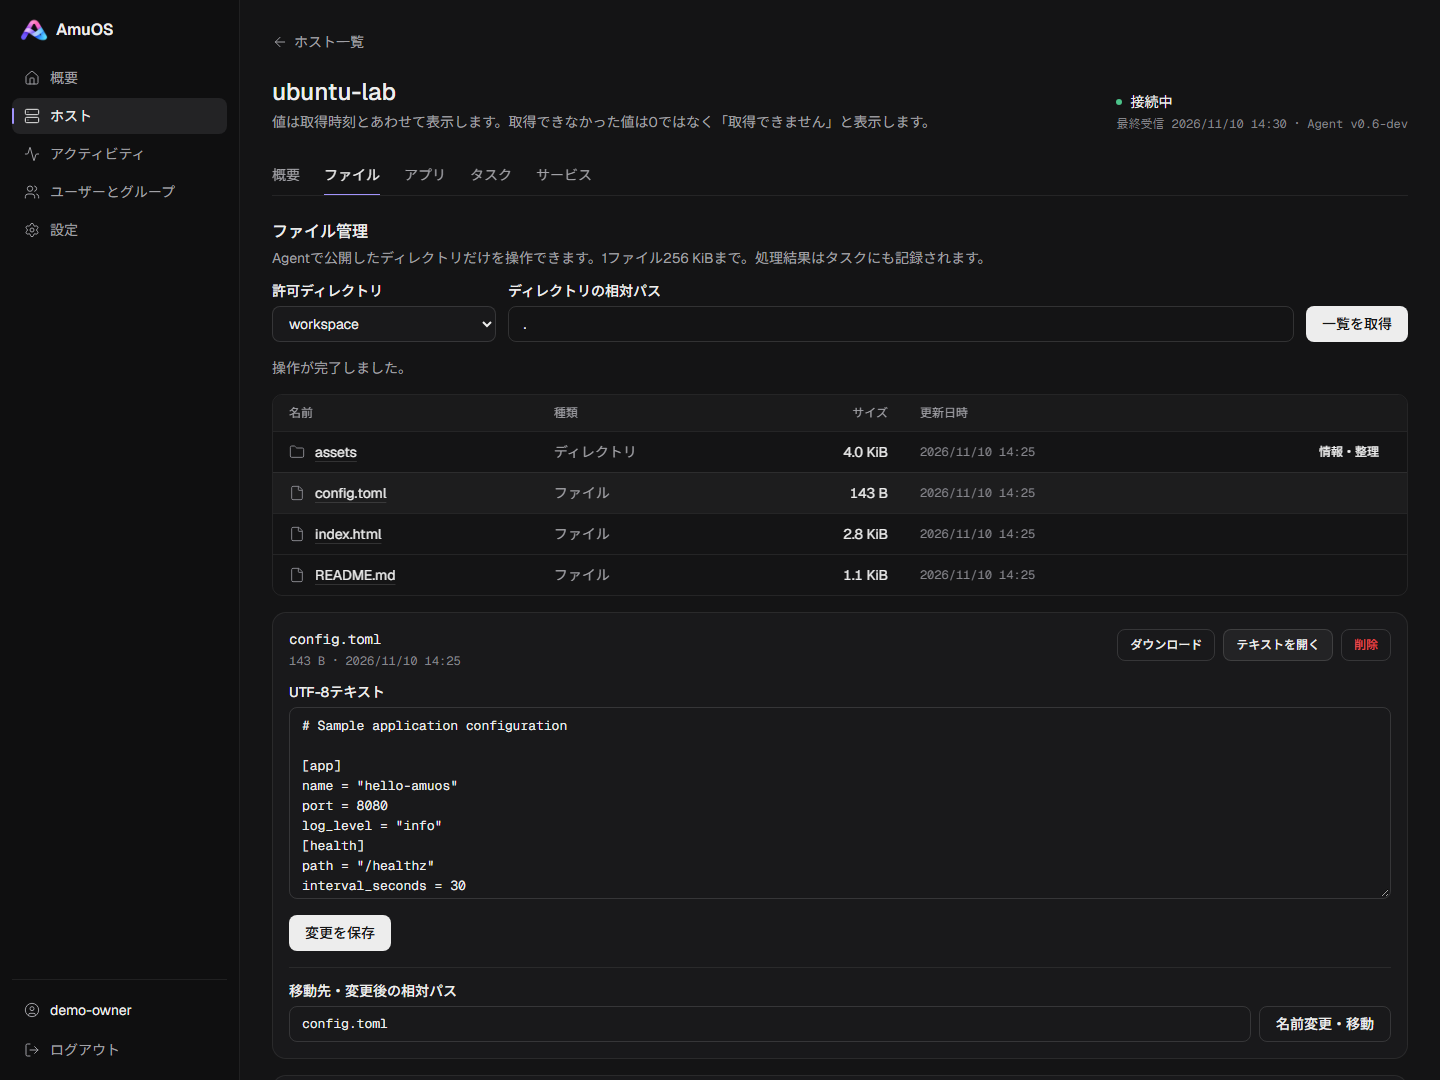
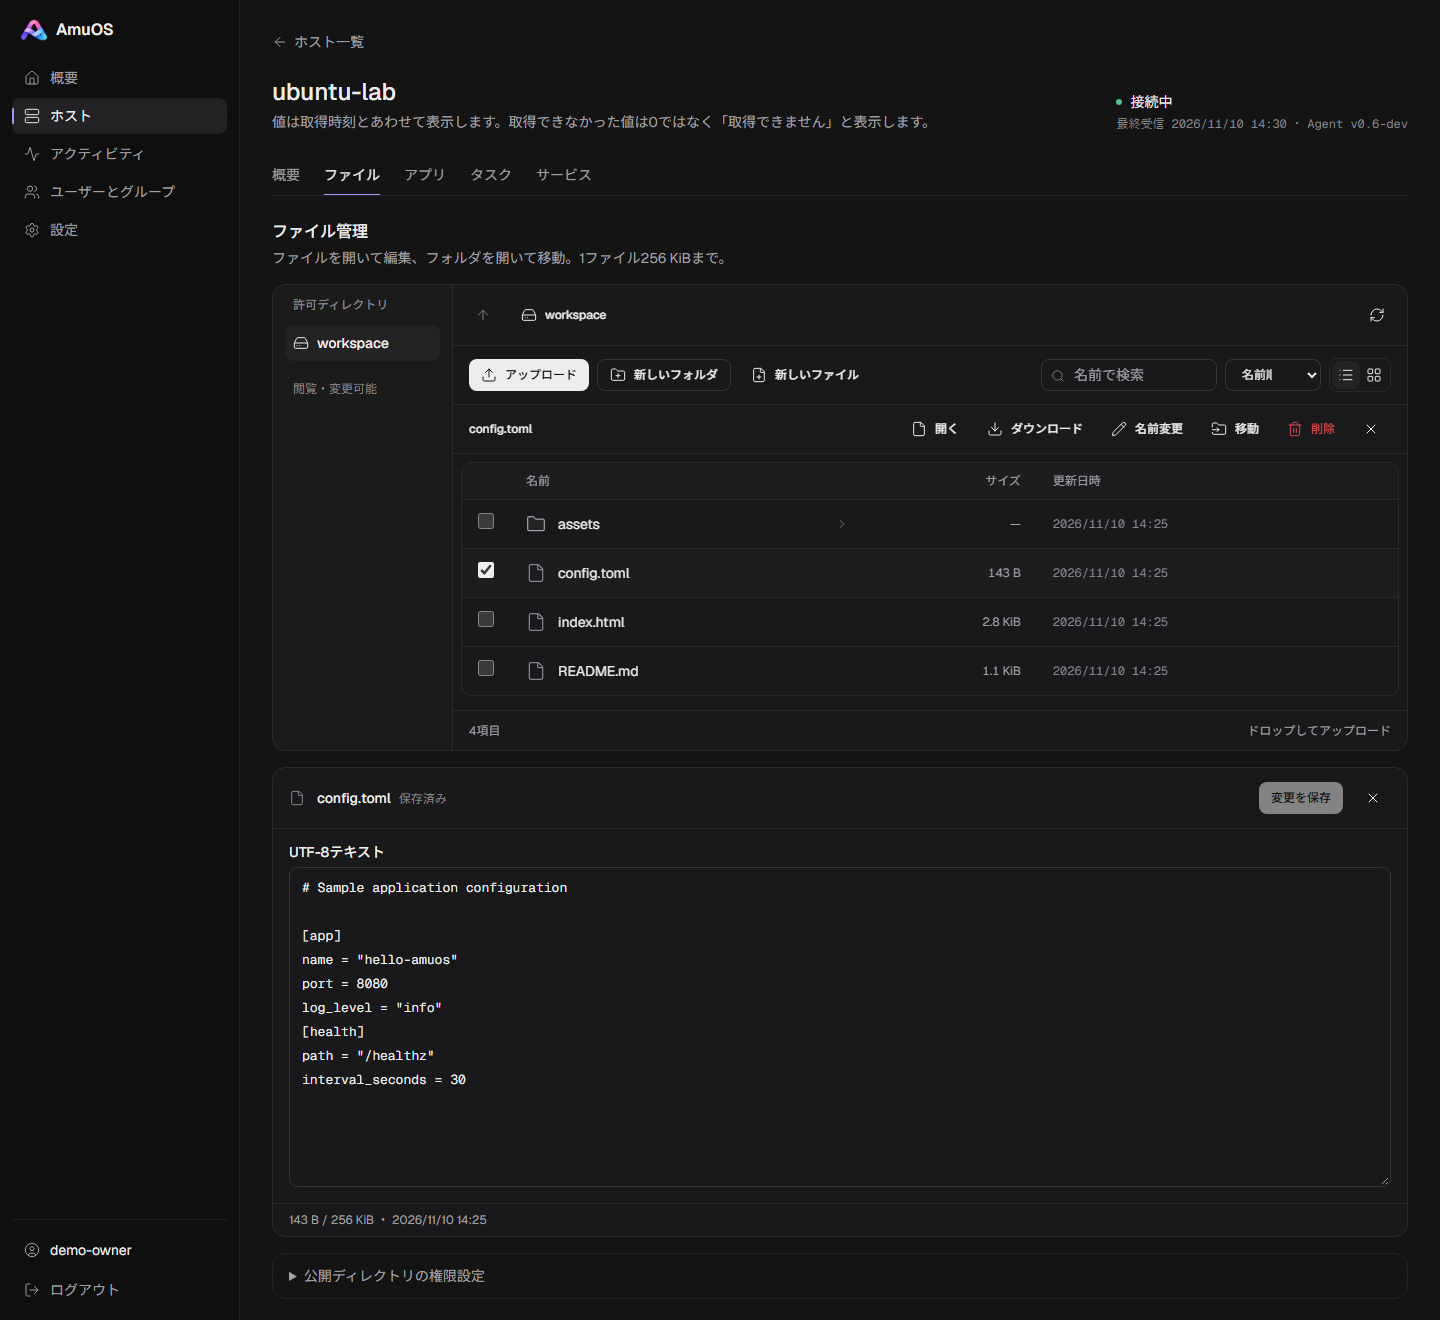
docs: document the file explorer and refresh its screenshot

diff --git a/docs/FILES.md b/docs/FILES.md
@@ -10,6 +10,19 @@ Windowsでは`path`を`C:\\AmuOSFiles`などにし、許可ディレクトリに
 
 ホスト詳細のファイル設定で同じルート名を登録し、閲覧・変更を許すロールを選ぶ。ホストの権限とディレクトリの許可ロールは同じ割当で照合する。OwnerもAgent側の許可範囲・読取り専用・OS権限を超えられない。Viewerには変更を許可しない。設定変更はホストAdmin以上が行う。
 
+## 画面での操作（開発版）
+
+ホスト詳細の「ファイル」タブを開くと、最初の許可ディレクトリの一覧を自動で取得する。他のタブを見ている間は一覧取得のタスクを作らない。左側のディレクトリ選択と上部のパンくずから場所を移動できる。狭い画面ではディレクトリ選択を上部に表示する。
+
+- 名前を押すとフォルダを開き、ファイルはUTF-8テキストとして開く。行またはチェックボックスで1項目を選択し、上部から開く・ダウンロード・名前変更・移動・削除を行う。テキストとして開けないファイルも、選択してダウンロードできる。
+- 一覧をリスト/グリッドで切り替え、名前・更新日時・サイズで並べ替えられる。フォルダを先に表示する。検索は現在の一覧に対する名前の絞込みで、サブフォルダを含む全文検索ではない。
+- 「新しいファイル」「新しいフォルダ」「名前変更」は名前を入力するダイアログで行う。「移動」は同じ許可ディレクトリ内のフォルダを画面で選ぶ。同名の宛先を上書きしない。
+- アップロードはボタンからのファイル選択、または一覧へのドラッグ＆ドロップで行う。複数ファイルを順に送信できる。フォルダのアップロードには対応しない。各ファイル256 KiBの上限は同じで、同名ファイルは拒否する。途中で失敗した場合は送信を止め、成功件数を表示する。一括操作の原子的な成功・失敗や自動切戻しは行わない。
+- 編集内容が未保存の場合、場所・選択項目の変更やエディタを閉じる前に確認する。タブを切り替えても編集中の内容を保持し、ブラウザの再読込み/終了時には標準の離脱確認を要求する。保存は上書き確認と既存のETagによる競合検出を使う。
+- 閲覧のみの利用者には変更ボタンを表示せず、エディタも読取り専用とする。API/Agent側の認可・OS権限による制限は引き続き適用する。
+
+この画面変更は公開配布版v0.6.0には含まれない。API・Agent・転送量・退避・復旧の契約は以下のとおり。
+
 単一ファイルは256 KiB、一覧は1,000件まで。転送はJSONのbase64で行い、実行前に全量を受信する。テキスト編集はUTF-8に限る。相対パスのみを受け付け、リンク・特殊ファイル・Windowsの代替データストリーム・予約名を拒否する。Goのos.Rootでディレクトリ外への差替えを防ぐ。ルート自体の移動やローカル管理者による変更を防ぐ隔離機構ではない。
 
 書込みは同じディレクトリの一時ファイルを同期してから公開する。更新・移動・削除には取得済みETagと確認が必要。編集前・削除前の通常ファイルはルート直下の非公開`.amuos-history`に退避する。ディレクトリ削除は空の場合のみ。退避ファイルの復旧・保持容量管理はホスト管理者がAgent停止中に行う。退避領域の`<ID>.json`に元の相対パス、`<ID>.data`に変更前の内容がある。復旧先と現物を確認してから手動で戻す。退避領域をUIから公開しない。容量不足は失敗として扱い、未完成転送を完成名で公開しない。プロセス停止後の`.amuos-upload-*`は管理者が確認して削除できる。

diff --git a/docs/TESTING.md b/docs/TESTING.md
@@ -109,3 +109,9 @@ pnpm exec playwright test e2e/files.spec.ts
 通常の全Go試験とLinux raceにファイル管理の試験を含める。許可ディレクトリの全基本操作、読取り専用、古いETag、予約名・パス逸脱・symlink/hardlink、上限サイズのmTLS転送、重複要求/結果、Agentジャーナルからの再開、スコープを混ぜた権限昇格の拒否、受領直前の権限剥奪、監査失敗時ロールバック、スキーマ13からのタスク/試行保持、移行失敗時の原状維持、独立スナップショット復元を検証する。
 
 LinuxではOSの書込み権限拒否とリンクの反復差替えも試験する。容量試験は専用tmpfs以外では実行せず、通常試験のskipを容量試験の成功とは数えない。Playwrightはアップロード・編集・移動・ダウンロード・削除と両プロセスの再起動を実際のAgentで行い、監査への本文非漏えいとCSP/画面例外を確認する。ファイル操作は他の認証/権限/復元/Agent E2Eと同じCI対象である。
+
+## ファイルUIの操作検証（2026-11-14）
+
+`web/e2e/file-browser.spec.ts`は合成されたAPI/タスク結果を使い、タブを開いた時だけの一覧取得、パンくずとフォルダ移動、名前の絞込み、リスト/グリッド切替、選択・作成・名前変更・移動先ダイアログ、未保存内容の破棄確認とタブ間保持を検証する。ドロップによるアップロード、複数転送の途中失敗時の成功件数と停止、サイズ超過時の未送信、バイナリの編集拒否、読取り専用の表示も確認する。この3件はUIの試験であり、実Agentや認可の証跡には流用しない。
+
+`files.spec.ts`は実Control Plane/Agentを使い、自動一覧取得、転送、両プロセス再起動、UTF-8編集と保存、名前変更、フォルダ作成、画面で選んだフォルダへの移動、ダウンロード、ファイル/空フォルダ削除、監査への内容非漏えいを確認する。CSP違反・画面例外は両試験で検出する。合成データの画像でダーク/ライト・グリッド・幅390pxの表示と横方向のはみ出しを確認する。
